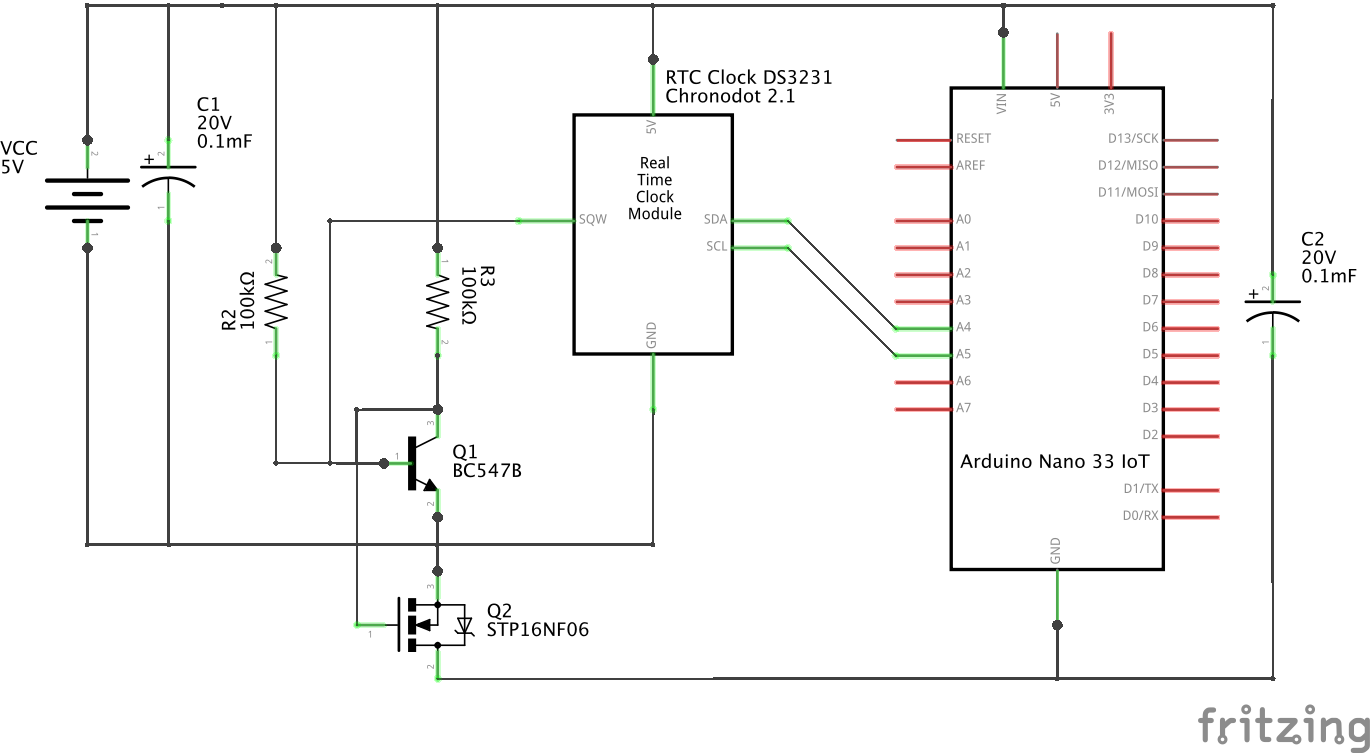
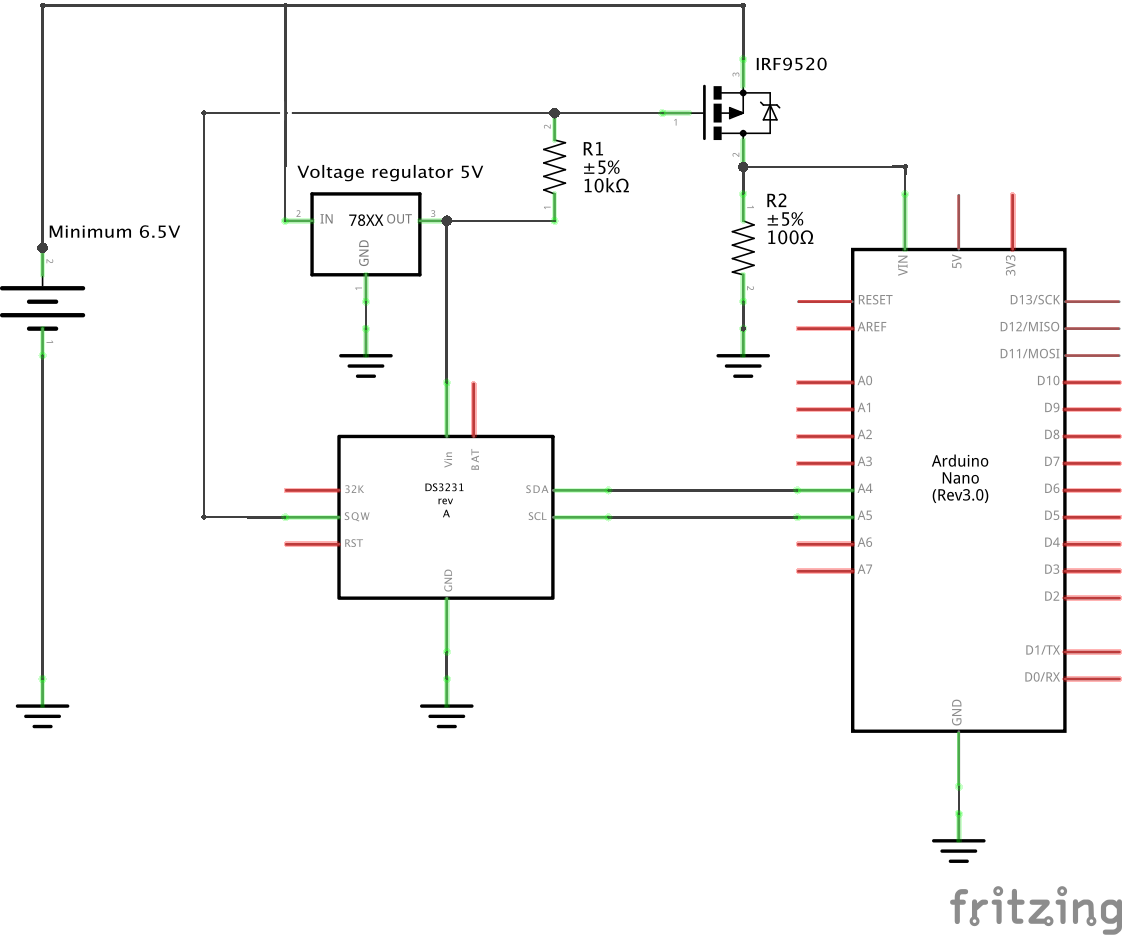
Improve RTC wake-up on timer

diff --git a/SavePowerRTC.md b/SavePowerRTC.md
@@ -12,12 +12,12 @@ The approach described here allows to:
 
 What do you need?
 
-- RTC DS3231 module (I use the ChronoDot 2.1 by Macetech but any DS3231 module with the INT pin wired in OK)
+- RTC DS3231 module (I use the ChronoDot 2.1 by Macetech but any DS3231 module with the INT pin wired is OK)
 - The [library DS3231 by NothernWidget](https://github.com/NorthernWidget/DS3231)
-- 2x capacitors 0.1mF
-- 2x resistors 100KOhms
-- 1x NPN transistor (I use the BC547B)
-- 1x MOSFET N-channel (I use the STP16NF06)
+- 1x resistor 10kOhms (pull-up to pilot the MOSFET)
+- 1x resistor 100Ohms (pull-down for the power supply of the Nano)
+- 1x MOSFET P-channel (I use the IRF9520)
+- 1x voltage regulator for the RTC DS3231 (I use the Pololu S7V7F5 but any voltage regulator aligned with the VCC of your DS3231 is OK)
 
 The schematics is quite simple:
 
@@ -27,84 +27,26 @@ If you want to reproduce this circuit on a breadboard:
 
 ![Wake on RTC alarm schematics](images/WakeOnTime_bb.png)
 
-The bevavior is easy to understand:
+The behaviour is easy to understand:
 
 - The Arduino Nano 33 IoT is piloting the RTC clock via I2C bus to set the alarm and clear the alarm.
-- The alarm of RTC clock is piloting the NPN transistor to open the power on the MOSFET.
+- The alarm of the RTC clock generates an interrupt which activate the MOSFET.
 - The Arduino Nano 33 IoT is powered through the MOSFET.
 - The program is running only once and go every time through the `setup()` and `loop()` functions.
+
+You will notice that the main power supply is at 6.5V minimum. It is to guarantee enough voltage at the output of the MOSFET as the Nano 33 IoT likes to have more than 5V on Vin when there is a wifi connection. The voltage regulator is only there to power the DS3231 (mine is working at 5V).
+
+If you have other sensors to power, you can connect on the 3.3V of the Nano. When the power is shutdown, the Nano and all sensors behind will be shutdown.
+
+If other sensors or elements have to be powered all the time at 5V, you can connect on the voltage regulator output but remember that it will drain some current.
 
 The program below is doing:
 
 - Blink the built-in LED 3 times fast at the startup.
 - Set the alarm on the RTC to wake up every minute.
 - Blink the built-in LED for 5 seconds.
+- Scan the wifi available (drain a lot of power)
+- Blink the built-in LED for 5 seconds.
 - Clear the alarm to shut down the power.
 
-```c++
-// Libraries required
-#include <Wire.h>
-#include <DS3231.h>
-
-// Global variables
-DS3231 Clock;
-
-void setup() {
-  // Wait 1 second (sometime, the wake-up is hard...)
-  delay(1000);
-  
-  // Initialize LED
-  pinMode(PIN_LED, OUTPUT);
-
-  // On startup, blink 3 times fast...
-  for(uint8_t i = 0; i < 3; i++) {
-    digitalWrite(PIN_LED, HIGH);
-    delay(100);
-    digitalWrite(PIN_LED, LOW);
-    delay(100);
-  }
-
-  // Start the I2C interface
-  Wire.begin();
-
-  // Alarm is not enabled! Should set alarm
-  if(!Clock.checkAlarmEnabled(1))
-  {
-    Clock.setClockMode(false);
-    // 0b1111 // each second
-    // 0b1110 // Once per minute (when second matches)
-    // 0b1100 // Once per hour (when minute and second matches)
-    // 0b1000 // Once per day (when hour, minute and second matches)
-    // 0b0000 // Once per month when date, hour, minute and second matches. Once per week if day of the week and A1Dy=true
-    // Set alarm to happen every minute (change to your wanted interval)
-    Clock.setA1Time(1, 1, 1, 0, 0b1110, false, false, false);
-    Clock.turnOnAlarm(1);
-  }
-
-  // Empty the I2C buffer
-  while(Wire.available()) {
-    Wire.read();
-  }
-}
-
-/****************************************************************************************
- * Main program
- ***************************************************************************************/
-void loop() {
-  // When waking-up, blink for 5 seconds
-  for(uint8_t i = 0; i < 5; i++) {
-    digitalWrite(PIN_LED, HIGH);
-    delay(1000);
-    digitalWrite(PIN_LED, LOW);
-    delay(1000);
-  }
-  
-  // Reset alarm to turn off the device
-  Clock.checkIfAlarm(1);
-
-  // Wait 10 seconds (if power down not wired)
-  delay(10000);
-}
-```
-
-([See the source code](https://github.com/ostaquet/arduino-nano-33-iot-ultimate-guide/blob/master/src/PowerOnTimer/PowerOnTimer.ino))
+[See the source code](https://github.com/ostaquet/arduino-nano-33-iot-ultimate-guide/blob/master/src/PowerOnTimer/PowerOnTimer.ino)
